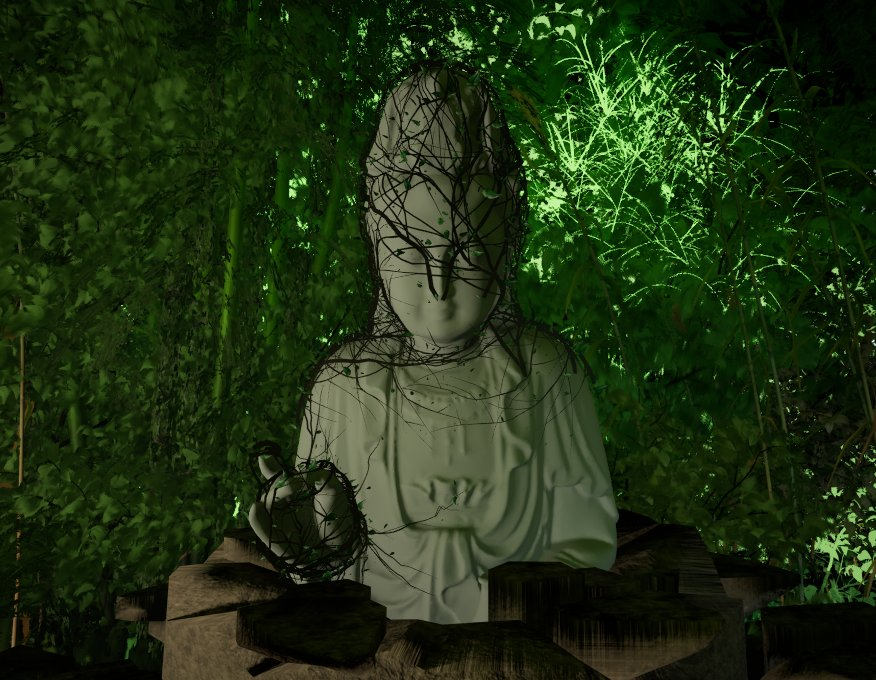
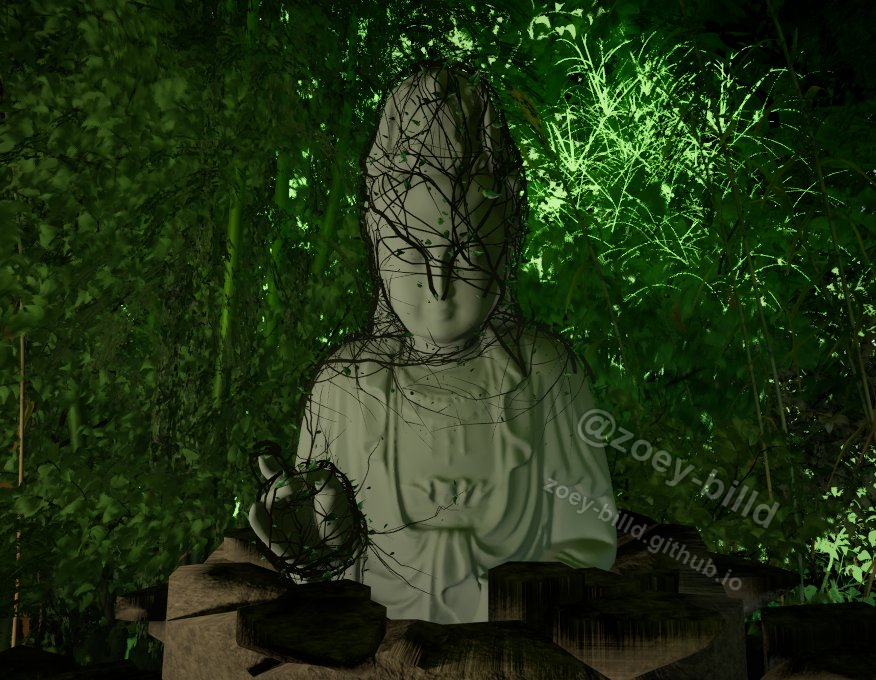
style v35: watermark ivy image, black article-section text, remove tripothon exploration gallery images

Changed region(s): [[0.6473, 0.5868, 0.8938, 0.7721], [0.6164, 0.7103, 0.8014, 0.8338], [0.8014, 0.8338, 0.863, 0.8647]]

diff --git a/assets/refresh.js b/assets/refresh.js
@@ -401,6 +401,7 @@
     initGlassParallax();
     swapPcgHeroImage();
     trimContactCopy();
+    removeTripothonGalleryImages();
   }
 
   if (document.readyState === "loading") {
@@ -429,6 +430,7 @@
       initGlassParallax();
       swapPcgHeroImage();
       trimContactCopy();
+      removeTripothonGalleryImages();
     } finally {
       observer.observe(document.body, { childList: true, subtree: true });
     }
@@ -573,6 +575,21 @@
         img.setAttribute("data-pcg-card-swapped", "1");
       }
     });
+  }
+
+  // —— 删除 Tripothon 详情页「探索层」那两张图（背包编成 / 网格寻宝）——
+  // 截图红框标的两张：探索层首行两张。按 figcaption 关键词删，幂等；
+  // React 重渲染后 observer 再次触发时会重新删除。
+  function removeTripothonGalleryImages() {
+    var h1 = document.querySelector(".article-hero h1, .article-title-block h1");
+    if (!h1 || h1.textContent.indexOf("Undead Emporium") === -1) return;
+    document.querySelectorAll(".media-gallery-item").forEach(function (fig) {
+      var cap = fig.querySelector("figcaption");
+      if (!cap) return;
+      var t = cap.textContent || "";
+      if (t.indexOf("探索层") !== -1) fig.remove();
+    });
+    // 只剩一张图时网格可能仍按两列排，让它自然铺满即可
   }
 
   // —— 联系区：删除框选的两段求职意向小字 + 大标题改中文（白色由 CSS 控制）——

diff --git a/assets/refresh.css b/assets/refresh.css
@@ -2057,3 +2057,17 @@ body .section-heading .eyebrow { color: #c9b998 !important; }
 .article-impact svg path[fill]:not([fill="none"]) { fill: #e3d3a8 !important; }
 /* 详情页 hero eyebrow 也呼应米黄 */
 .article-hero .eyebrow { color: #c9b998 !important; }
+
+/* ============================================================
+   v35 修正（2026-11-20）
+   ============================================================ */
+/* 详情页 article-section 浅灰卡片里的蓝色列表字 -> 黑色 */
+.article-section li,
+.article-section li span,
+.article-section li a,
+.article-section p,
+.article-sections li,
+.article-sections li span {
+  color: #111 !important;
+}
+/* Tripothon 探索层两张图由 JS 移除（见 refresh.js removeTripothonGalleryImages） */

diff --git a/index.html b/index.html
@@ -36,7 +36,7 @@
 
     <link rel="stylesheet" crossorigin href="./assets/index-DCW7S8X4.css?v=15">
 
-    <link rel="stylesheet" href="./assets/refresh.css?v=34">
+    <link rel="stylesheet" href="./assets/refresh.css?v=35">
 
   </head>
 
@@ -44,7 +44,7 @@
 
     <div id="root"></div>
 
-    <script src="./assets/refresh.js?v=34"></script>
+    <script src="./assets/refresh.js?v=35"></script>
 
   </body>
 
